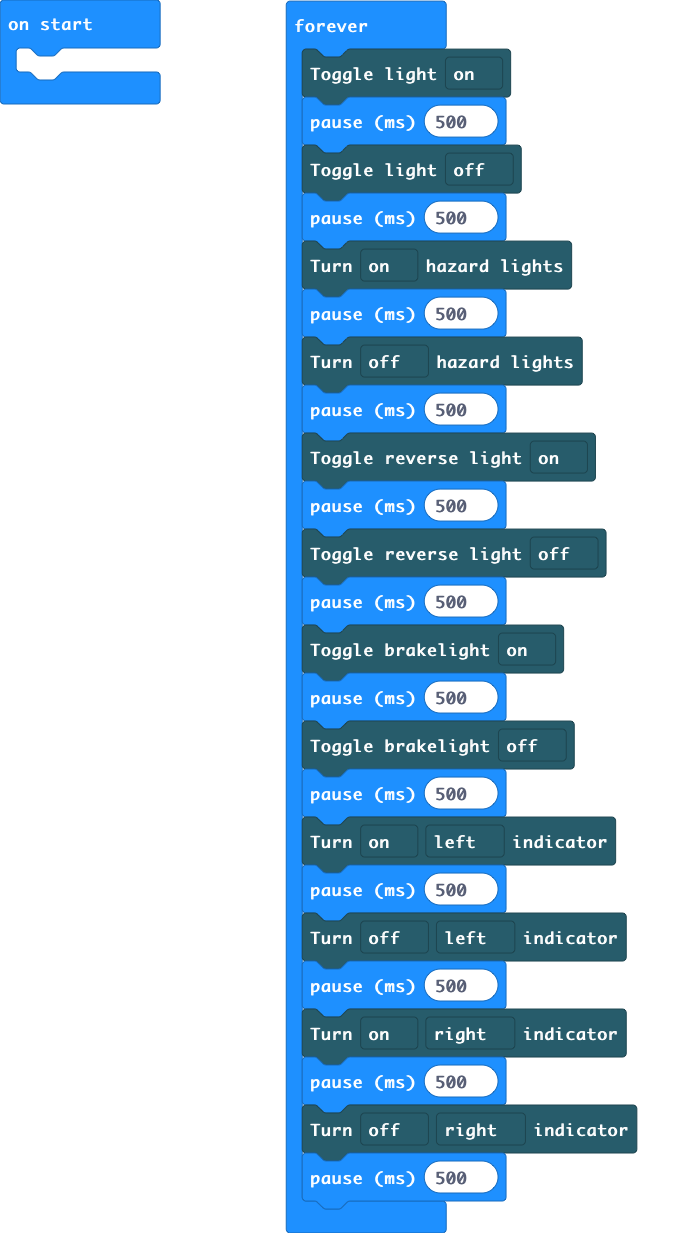
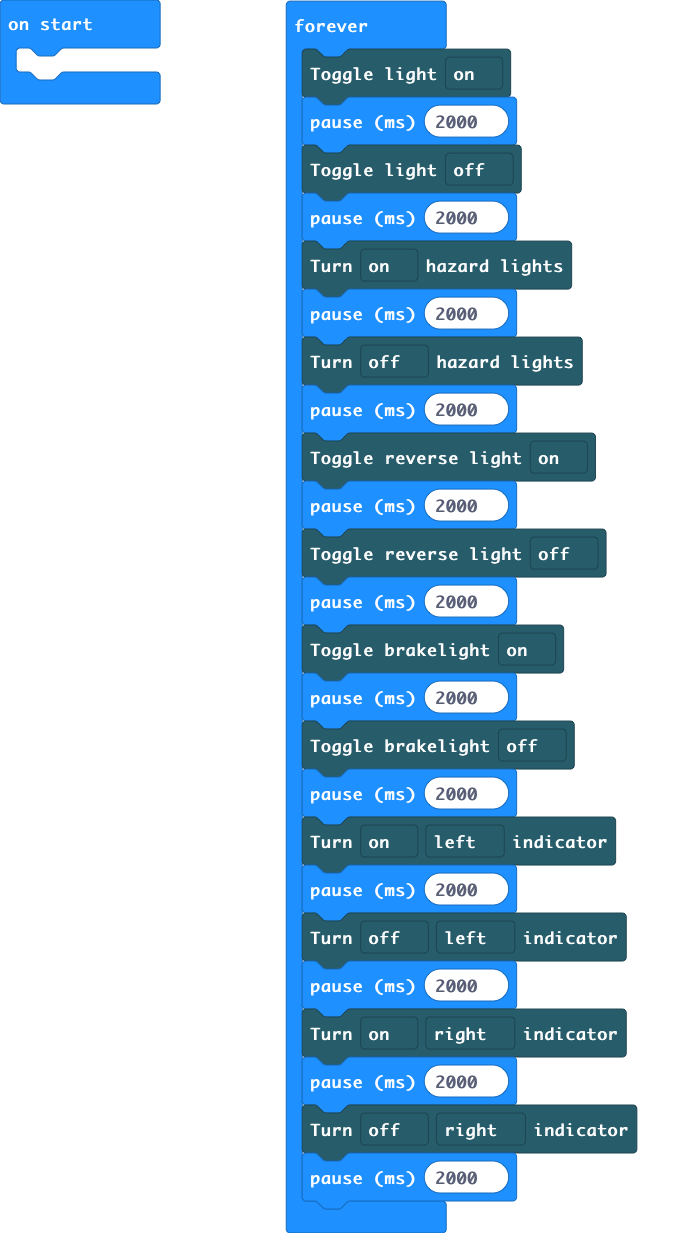
change timings

diff --git a/main.ts b/main.ts
@@ -1,26 +1,26 @@
 basic.forever(function () {
     JoyCar.light(ToggleSwitch.On)
-    basic.pause(500)
+    basic.pause(2000)
     JoyCar.light(ToggleSwitch.Off)
-    basic.pause(500)
+    basic.pause(2000)
     JoyCar.hazardlights(ToggleSwitch.On)
-    basic.pause(500)
+    basic.pause(2000)
     JoyCar.hazardlights(ToggleSwitch.Off)
-    basic.pause(500)
+    basic.pause(2000)
     JoyCar.reversinglight(ToggleSwitch.On)
-    basic.pause(500)
+    basic.pause(2000)
     JoyCar.reversinglight(ToggleSwitch.Off)
-    basic.pause(500)
+    basic.pause(2000)
     JoyCar.brakelight(ToggleSwitch.On)
-    basic.pause(500)
+    basic.pause(2000)
     JoyCar.brakelight(ToggleSwitch.Off)
-    basic.pause(500)
+    basic.pause(2000)
     JoyCar.indicator(ToggleSwitch.On, SensorLRSelection.Left)
-    basic.pause(500)
+    basic.pause(2000)
     JoyCar.indicator(ToggleSwitch.Off, SensorLRSelection.Left)
-    basic.pause(500)
+    basic.pause(2000)
     JoyCar.indicator(ToggleSwitch.On, SensorLRSelection.Right)
-    basic.pause(500)
+    basic.pause(2000)
     JoyCar.indicator(ToggleSwitch.Off, SensorLRSelection.Right)
-    basic.pause(500)
+    basic.pause(2000)
 })
